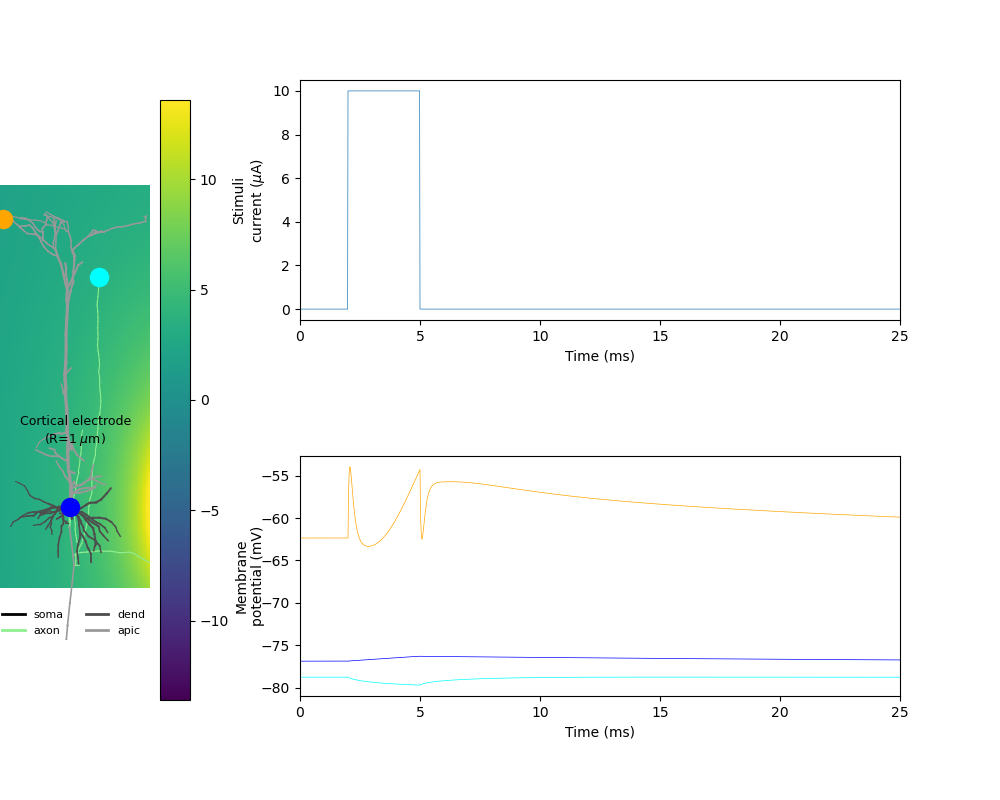
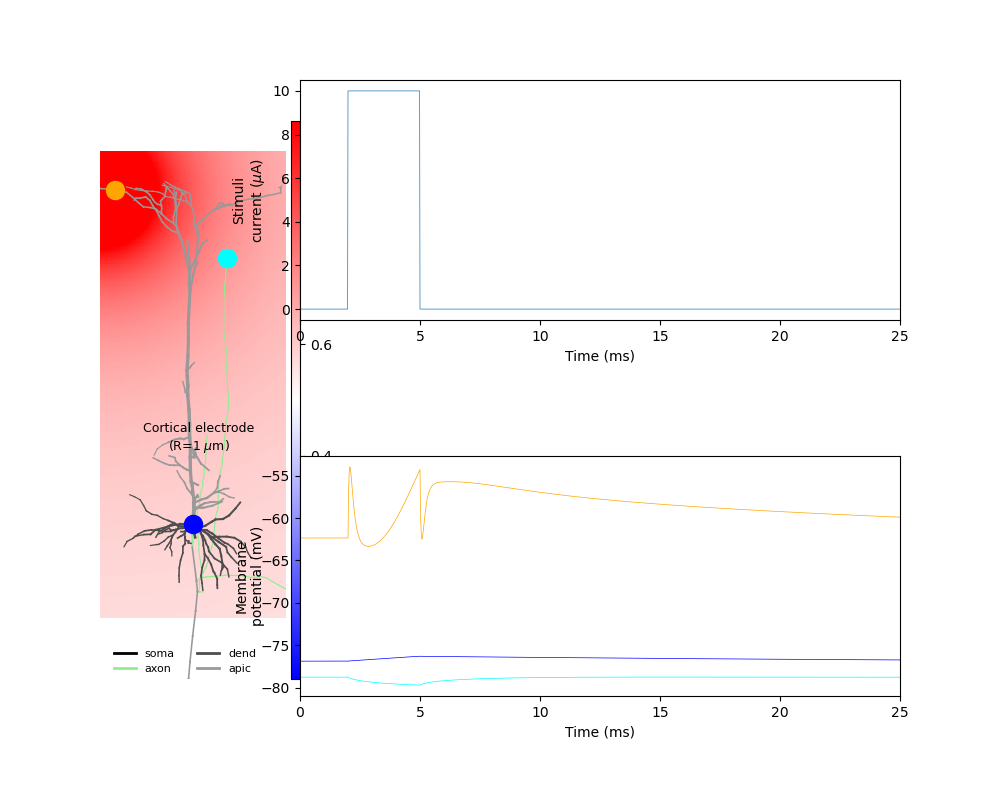
More work on mpi implementation (WIP)

Changed region(s): [[0.0, 0.125, 0.341, 0.875]]

diff --git a/main.py b/main.py
@@ -9,6 +9,7 @@ import sys
 import time
 from os.path import join
 from matplotlib.patches import Ellipse
+from matplotlib.cm import ScalarMappable
 
 
 """
@@ -105,8 +106,12 @@ class ExternalPotentialSim:
             # self.cell.set_rotation(x=4.788, y=-3.166, z=-3)
 
     def create_measure_points(self, coords):
-
+        """
+        Setting measurement of membrane potential in compartments closest to
+        coordinates.
+        """
         measure_pnts = []
+        self.elec_positions = []
 
         for i in range(coords.shape[0]):
             x, y, z = coords[i, :]
@@ -117,16 +122,16 @@ class ExternalPotentialSim:
 
         # Automatically setting electrode at a given distance from the measurement points
         if self.cell_name == 'Hallermann':
-            self.elec_positions = []
+
             for mp in self.measure_pnts:
                 self.elec_positions.append(
-                    np.array([[int(self.cell.xmid[mp]) - 50, int(self.cell.ymid[mp]),
-                               int(self.cell.zmid[mp])], ], dtype=float))
+                    np.array([int(self.cell.xmid[mp]) - 50, int(self.cell.ymid[mp]),
+                              int(self.cell.zmid[mp])], dtype=float))
 
     def _calc_point_sources_field(self, elec_params):
         pass
 
-    def extra_cellular_stimuli(self, elec_params):
+    def extracellular_stimuli(self, elec_params):
         """
         Parameters: LFPy Cell object, dict of electrode parameters
 
@@ -135,6 +140,7 @@ class ExternalPotentialSim:
         self.elec_params = elec_params
         self.amp = elec_params['pulse_amp']  # External current amplitide
         # Electrode position
+        print('ex_stim', elec_params['positions'])
         self.x0, self.y0, self.z0 = elec_params['positions']
         sigma = elec_params['sigma']
         self.start_time = elec_params['start_time']
@@ -167,6 +173,9 @@ class ExternalPotentialSim:
         self.cell.simulate(rec_vmem=True, rec_imem=True)
 
     def _find_steady_state(self):
+        """
+        Detect steady state potential
+        """
         self.v_ss = np.max(self.cell.vmem)
         self.v_ss_idx = np.argmax(self.cell.vmem)
         find_diff = np.diff(self.cell.vmem)
@@ -191,11 +200,10 @@ class ExternalPotentialSim:
     def run_ext_sim(self, cell_models_folder, elec_params, current_amps, positions, coords, stop_time, passive=False):
 
         self.return_cell(cell_models_folder, passive)
-        self.elec_positions = positions
-        elec_dists = np.zeros((len(positions), coords.shape[0]))
-        ss_pot = np.zeros(len(positions))
-        dV = np.zeros(len(positions))
         self.create_measure_points(coords)
+        elec_dists = np.zeros((len(self.elec_positions), coords.shape[0]))
+        ss_pot = np.zeros(len(self.elec_positions))
+        dV = np.zeros(len(self.elec_positions))
         # Neuron activation after cell object has been created
 
         for I in current_amps:
@@ -203,9 +211,9 @@ class ExternalPotentialSim:
             elec_params['pulse_amp'] = I
 
             for idx, pos in enumerate(self.elec_positions):
-
+                print('idx', idx)
                 elec_params['positions'] = pos
-                self.extra_cellular_stimuli(elec_params)
+                self.extracellular_stimuli(elec_params)
                 self.run_cell_simulation()
                 self.plot_cellsim()
                 self._find_steady_state()
@@ -232,7 +240,7 @@ class ExternalPotentialSim:
         elec_params['positions'] = positions
         elec_params['pulse_amp'] = current_amps
 
-        self.extra_cellular_stimuli(elec_params)
+        self.extracellular_stimuli(elec_params)
         self.run_cell_simulation()
         self.plot_currents()
 
@@ -294,7 +302,7 @@ class ExternalPotentialSim:
         # for e_idx in range(len(self.elec_params["positions"])):
         #     ellipse_pos = [self.elec_params["positions"][e_idx]
         #                    [0], self.elec_params["positions"][e_idx][2]]
-        print(self.elec_params["positions"])
+        # print(self.elec_params["positions"])
         ellipse_pos = [self.elec_params["positions"]
                        [0], self.elec_params["positions"][2]]
 
@@ -321,12 +329,13 @@ class ExternalPotentialSim:
         # im_p = ax_cb.imshow(v_field_ext.T, extent=[np.min(xf), np.max(xf), np.min(zf), np.max(zf)],
         #                     origin='lower', interpolation='nearest', cmap='bwr', vmin=-vmax, vmax=vmax)
         #
-        # divider = make_axes_locatable(ax_cb)
-        # cax = divider.append_axes("right", size="5%", pad=0.05)
+        divider = make_axes_locatable(self.ax_m)
+        cax = divider.append_axes("right", size="5%", pad=0.05)
         # plt.colorbar(im_p, cax=cax, label='mV')
         ext_field_im = self.ax_m.pcolormesh(
-            xf, zf, v_field_ext, vmin=-vmax, vmax=vmax, shading='auto')
-        self.fig.colorbar(ext_field_im, ax=self.ax_m)
+            xf, zf, v_field_ext.T, cmap='bwr', vmin=-vmax, vmax=vmax, shading='auto')
+        self.fig.colorbar(ScalarMappable(
+            norm=None, cmap='bwr'), cax=cax, ax=self.ax_m)
         # plt.show()
 
     def plot_membrane_potential(self, placement):
@@ -363,11 +372,13 @@ class ExternalPotentialSim:
         self.cell_plot_colors = idx_clr = {idx: [
             'b', 'cyan', 'orange', 'green', 'purple'][num] for num, idx in enumerate(self.cell_plot_idxs)}
 
-        self.morph_ax_params = [-0.01, 0.05, 0.2, 0.90]
+        # Setting size and location of plotted morphology
+        self.morph_ax_params = [0.1, 0.05, 0.2, 0.90]
 
         self.plot_morphology()
         self.plot_external_field()
 
+        # # Setting size and location of plotted potentials and current
         ax_top = 0.90
         ax_h = 0.30
         ax_w = 0.6

diff --git a/axon_single_source_pulse.py b/axon_single_source_pulse.py
@@ -31,46 +31,53 @@ Create figure of axial current over distance along axon. Use simple stick model.
 Improve plot_cellsim_alt for easy reading and page formatting.
 
 """
-
-# if RANK == 0:
-#     cell_models_folder = join(os.path.dirname(__file__), "cell_models")
-#     current_amps = [-1e4]  # uA
-#     positions = [np.array([[0, 0, -50], ], dtype=float),
-#                  np.array([[0, 0, -100], ], dtype=float),
-#                  np.array([[0, 0, -200], ], dtype=float),
-#                  np.array([[0, 0, -400], ], dtype=float),
-#                  np.array([[0, 0, -500], ], dtype=float)]
-#     print(positions[0].shape)
-#     cellsim_bisc_stick_params['save_folder_name'] = 'mpi_axon_test'
-#     axon_measure_idxs = np.array(
-#         [[0, 0, 0], [0, 0, 300], [0, 0, 600], [0, 0, 1000]])
-#     monophasic_pulse_params['stop_time'] = 200
-#
-# else:
-#     cell_models_folder = None
-#     current_amps = None  # uA
-#     positions = None
-#     axon_measure_idxs = None
-#
-# COMM.bcast(cell_models_folder, root=0)
-# COMM.bcast(current_amps, root=0)
-# COMM.bcast(monophasic_pulse_params, root=0)
-# COMM.bcast(cellsim_bisc_stick_params, root=0)
-# COMM.scatter(positions, root=0)
-# # Test parameters
-
 cell_models_folder = join(os.path.dirname(__file__), "cell_models")
 current_amps = [-1e4]  # uA
-positions = [np.array([0, 0, -50], dtype=float),
-             np.array([0, 0, -100], dtype=float),
-             np.array([0, 0, -200], dtype=float),
-             np.array([0, 0, -400], dtype=float),
-             np.array([0, 0, -500], dtype=float)]
-print(positions[0].shape)
+positions = np.array([[0, 0, -50],
+                      [0, 0, -100],
+                      [0, 0, -200],
+                      [0, 0, -400],
+                      [0, 0, -500]], dtype=float)
+print(positions.shape)
 cellsim_bisc_stick_params['save_folder_name'] = 'mpi_axon_test'
 axon_measure_idxs = np.array(
     [[0, 0, 0], [0, 0, 300], [0, 0, 600], [0, 0, 1000]])
 monophasic_pulse_params['stop_time'] = 200
+
+if RANK == 0:
+    sendbuf = positions
+
+
+else:
+    cell_models_folder = None
+    current_amps = None  # uA
+    positions = None
+    axon_measure_idxs = None
+
+
+COMM.bcast(cell_models_folder, root=0)
+COMM.bcast(current_amps, root=0)
+COMM.bcast(monophasic_pulse_params, root=0)
+COMM.bcast(cellsim_bisc_stick_params, root=0)
+
+recvbuf = np.empty(3, dtype='float')
+COMM.Scatter(positions, recvbuf, root=0)
+
+positions = recvbuf
+# # Test parameters
+
+# cell_models_folder = join(os.path.dirname(__file__), "cell_models")
+# current_amps = [-1e4]  # uA
+# positions = np.array([np.array([0, 0, -50], dtype=float),
+#                       np.array([0, 0, -100], dtype=float),
+#                       np.array([0, 0, -200], dtype=float),
+#                       np.array([0, 0, -400], dtype=float),
+#                       np.array([0, 0, -500], dtype=float)])
+
+# cellsim_bisc_stick_params['save_folder_name'] = 'mpi_axon_test'
+# axon_measure_idxs = np.array(
+#     [[0, 0, 0], [0, 0, 300], [0, 0, 600], [0, 0, 1000]])
+# monophasic_pulse_params['stop_time'] = 200
 
 extPotSim = ExternalPotentialSim(cellsim_bisc_stick_params)
 

diff --git a/hallermann_single_source_pulse.py b/hallermann_single_source_pulse.py
@@ -18,9 +18,10 @@ extPotSim = ExternalPotentialSim(cellsim_Hallermann_params)
 
 # Test parameters
 # current_amps = [2e4, -2e4, 1e4, -1e4, -8e3, 8e3, -7e3, 7e3, -5e3, 5e3]  # uA
-elec_positions = [np.array([[50, 0, -200], ], dtype=float),
-                  np.array([[111, 131, 652], ], dtype=float),
-                  np.array([[-200, 0, 0], ], dtype=float)]
+elec_positions = np.array([np.array([50, 0, -200], dtype=float),
+                           np.array([111, 131, 652], dtype=float),
+                           np.array([-200, 0, 0], dtype=float)])
+
 
 # elec_positions = [np.array([[50, 0, -200], ], dtype=float),
 #                   np.array([[111, 131, 652], ], dtype=float),
